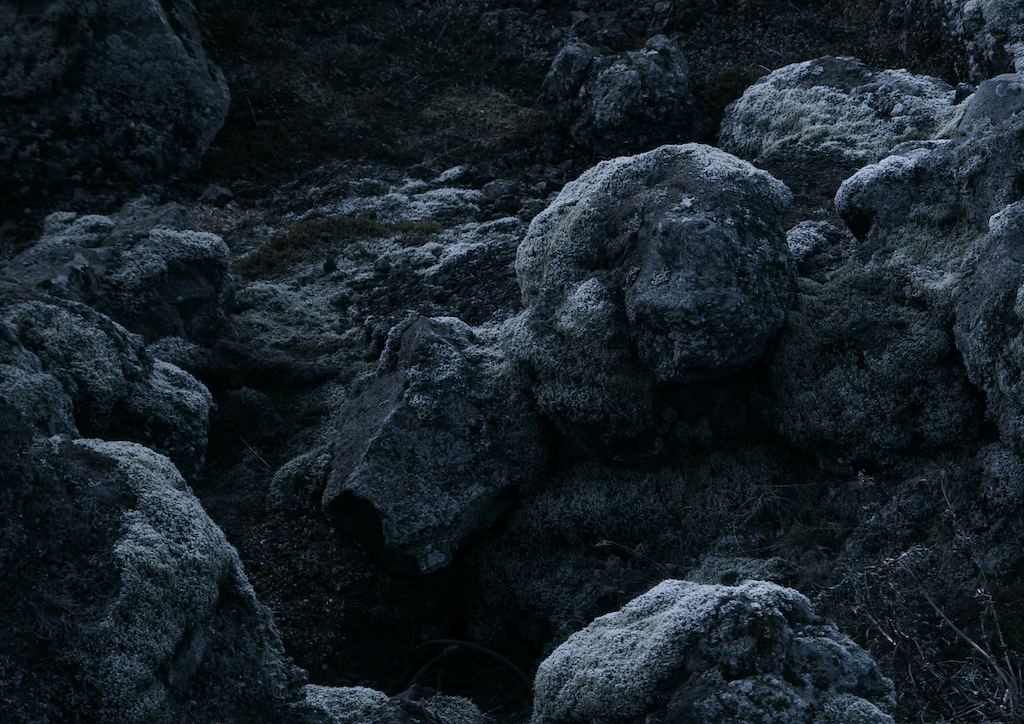
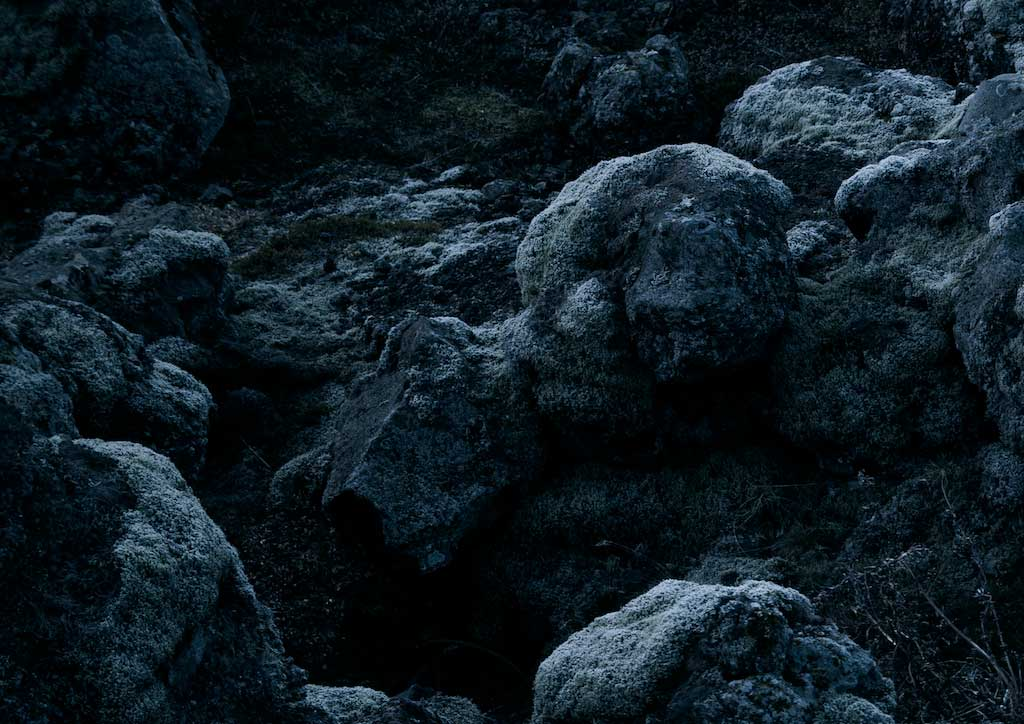
pic optimalization

diff --git a/src/Components/PagesContents/WelcomePage/WelcomePageParallax/style.js b/src/Components/PagesContents/WelcomePage/WelcomePageParallax/style.js
@@ -1,7 +1,7 @@
 import styled from 'styled-components';
 import {Paragraph, QUERIES, MediumHeading, ParallaxBox, CenterBox} from '../../../../Style';
 import {Btn} from "../../../UI/DivBtn/style";
-import bg from '../../../../Assets/Backgrounds/b0.png'
+import bg from '../../../../Assets/Backgrounds/b0.jpg'
 
 export const WelcomeCont = styled(ParallaxBox)`
     width: 100vw;
